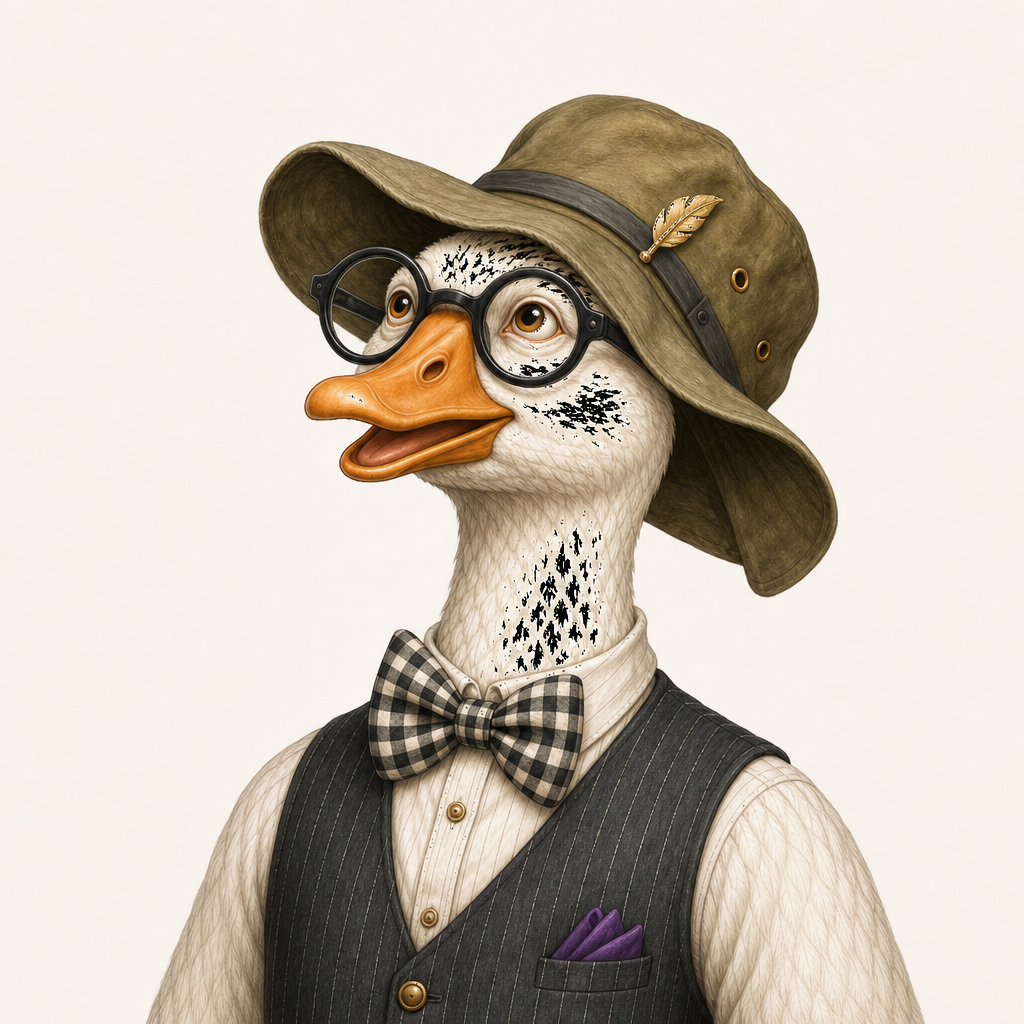
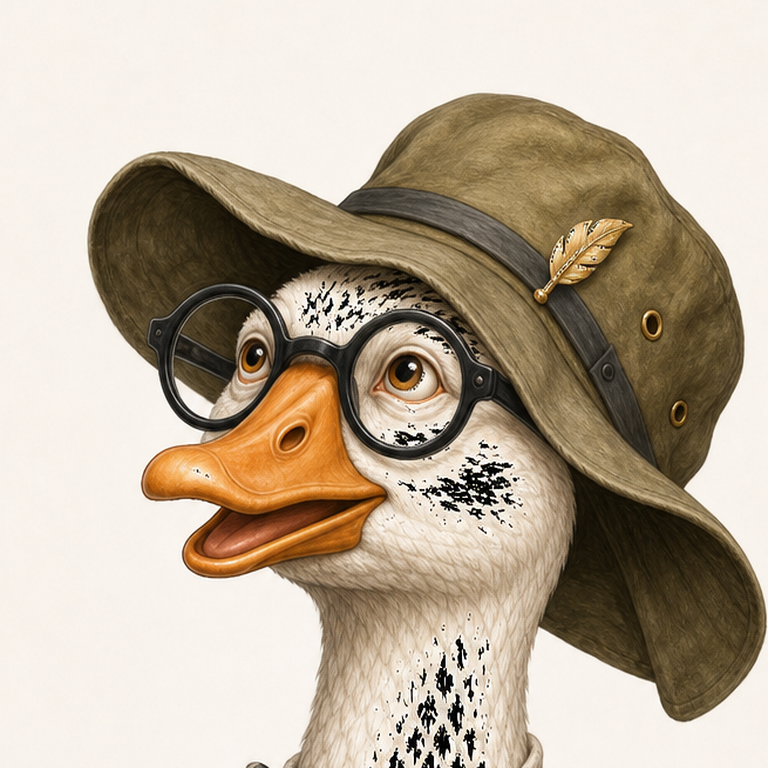
Lock preferred cream unicorn + quiet trail questionnaire
Default to unicorn, keep the subtle paper survey with waypoint labels,
and tighten the 3.5rem trail-hat Gilbert portrait crop.

diff --git a/gilded-goose/clients/pav-law/project-picker/index.html b/gilded-goose/clients/pav-law/project-picker/index.html
@@ -14,8 +14,8 @@
       try {
         var q = normalizeTheme(new URLSearchParams(location.search).get("theme"));
         var stored = normalizeTheme(localStorage.getItem("gilbert-guide-theme"));
-        var theme = q || stored ||
-          (window.matchMedia && window.matchMedia("(prefers-color-scheme: dark)").matches ? "dark" : "unicorn");
+        /* Preferred: cream unicorn + quiet trail questionnaire */
+        var theme = q || stored || "unicorn";
         document.documentElement.setAttribute("data-theme", theme);
       } catch (e) {
         document.documentElement.setAttribute("data-theme", "unicorn");
@@ -506,11 +506,11 @@
       width: 100%;
       height: 100%;
       object-fit: cover;
-      object-position: center 12%;
+      object-position: center 22%;
     }
     .survey-gilbert-fig.is-profile .survey-gilbert-img {
       object-fit: cover;
-      object-position: center 10%;
+      object-position: center 22%;
       padding: 0;
     }
     .survey-gilbert-caption {
@@ -1679,8 +1679,8 @@
     </div>
   </div>
 
-  <script src="pages-config.js?v=20260716q"></script>
-  <script src="projects-data.js?v=20260716q"></script>
-  <script src="app.js?v=20260716q"></script>
+  <script src="pages-config.js?v=20260716r"></script>
+  <script src="projects-data.js?v=20260716r"></script>
+  <script src="app.js?v=20260716r"></script>
 </body>
 </html>

diff --git a/gilded-goose/clients/pav-law/project-picker/app.js b/gilded-goose/clients/pav-law/project-picker/app.js
@@ -1133,7 +1133,7 @@
       el.innerHTML = `<p class="survey-result-meta">Trail guide unavailable.</p>`;
       return;
     }
-    const waypointLabel = node.step === 1 ? "Trailhead" : "Fork ahead";
+    const waypointLabel = node.step === 1 ? "Trailhead" : "Waypoint";
     el.innerHTML = `<div class="survey-progress">
         <span>${waypointLabel}</span>
         <span class="survey-progress-steps">Waypoint ${node.step} of ${node.steps}</span>
@@ -1642,9 +1642,7 @@
       const stored = normalizeTheme(localStorage.getItem(THEME_STORAGE_KEY));
       if (stored) return stored;
     } catch (e) { /* ignore */ }
-    if (typeof window.matchMedia === "function" && window.matchMedia("(prefers-color-scheme: dark)").matches) {
-      return THEME_DARK;
-    }
+    /* Preferred presentation: cream unicorn + quiet trail questionnaire */
     return THEME_UNICORN;
   }
 

diff --git a/gilded-goose/clients/pav-law/project-picker/BRANDING-LAYOUT.md b/gilded-goose/clients/pav-law/project-picker/BRANDING-LAYOUT.md
@@ -64,7 +64,7 @@ Do **not** put branding hex in project markdown or `projects-data.js`.
 
 ### Themes — Dark ↔ Unicorn
 
-Header toggle switches **`dark`** and **`unicorn`** only (legacy `light` maps to `unicorn`). Preference key `gilbert-guide-theme` in `localStorage`. First visit follows `prefers-color-scheme` (dark → dark, else unicorn). Early head script sets `data-theme` before paint. URL override: `?theme=dark` or `?theme=unicorn`.
+Header toggle switches **`dark`** and **`unicorn`** only (legacy `light` maps to `unicorn`). Preference key `gilbert-guide-theme` in `localStorage`. **Default / preferred: unicorn** (cream + quiet trail questionnaire). Early head script sets `data-theme` before paint. URL override: `?theme=dark` or `?theme=unicorn`.
 
 #### Dark (`html[data-theme="dark"]`)
 
